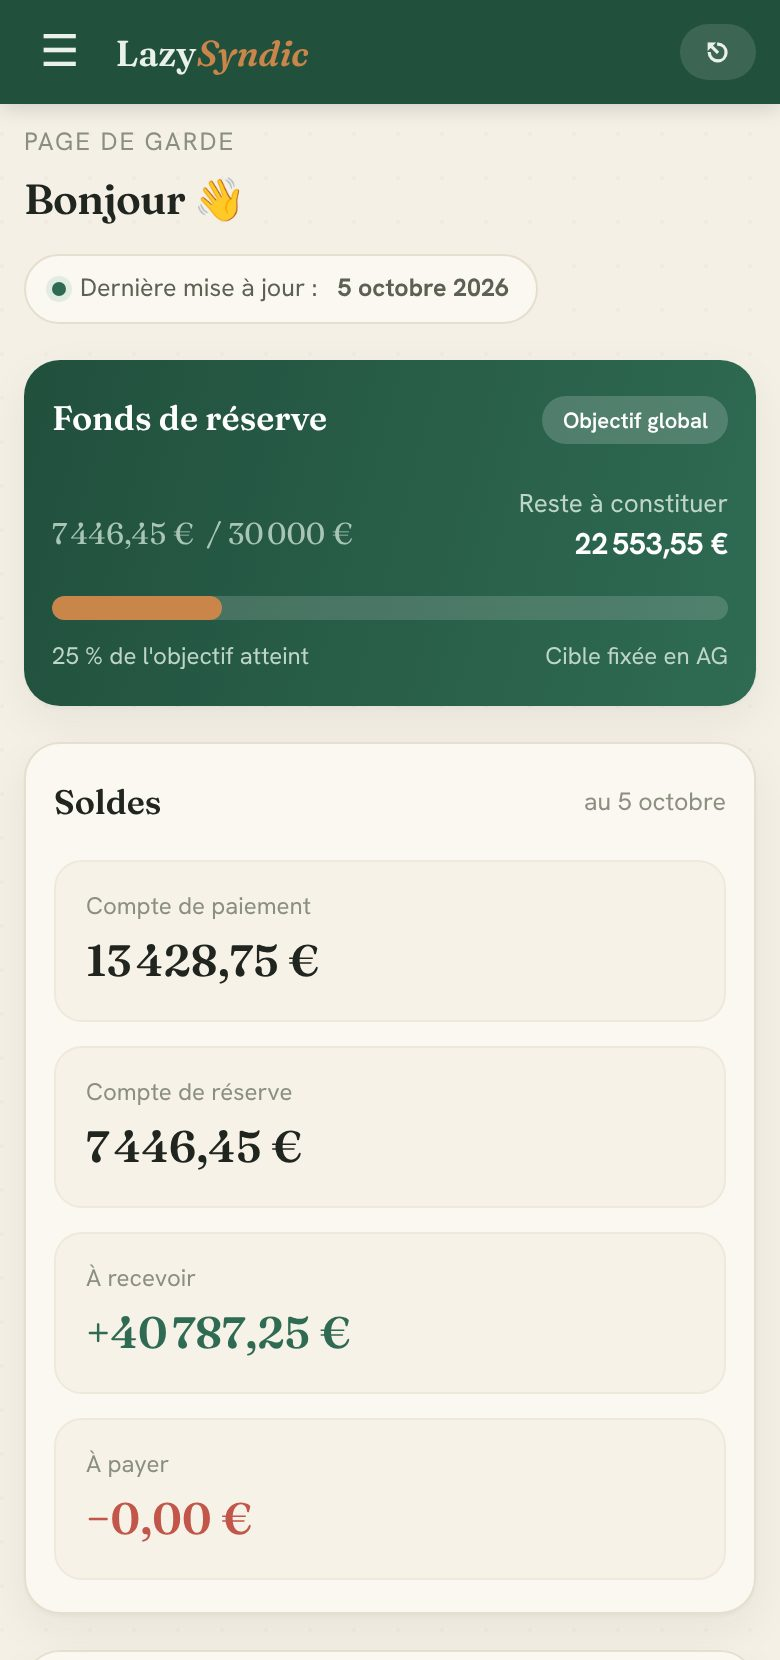
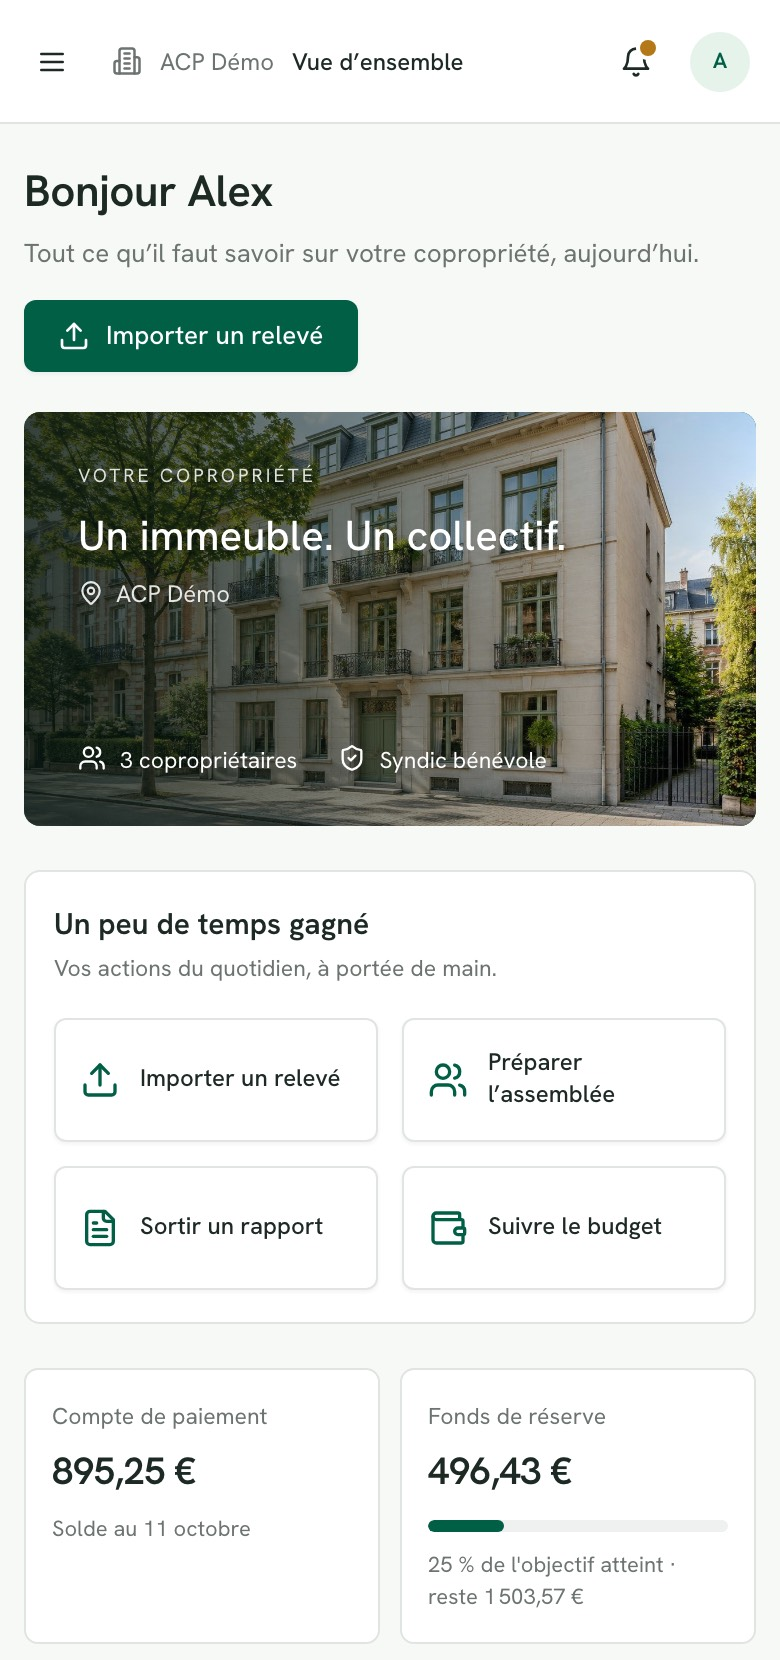
feat(réalisations): LazySyndic montré dans son nouveau design — vue d'ensemble avec l'immeuble, les raccourcis et les quatre chiffres clés, dans le carrousel et sur la page du cas ; iPhone à barre d'état blanche comme la barre du haut de l'app (v2.41)
Captures refaites sur une copie hors ligne de LazySyndic (01732ee, données de démo, utilisateur
« Alex Martin »), aux mêmes dimensions qu'avant (1200×750, 780×1660). Textes alternatifs EN et FR
réécrits, ?v=16 / ?v=2 contre le cache, sitemap et pages /fr/ régénérés par build-fr.

diff --git a/fr/index.html b/fr/index.html
@@ -123,8 +123,10 @@
 <link href="https://fonts.googleapis.com/css2?family=Sora:wght@500;600;700;800&family=Instrument+Sans:ital,wght@0,400;0,500;0,600;1,400&family=JetBrains+Mono:wght@400;500;600&display=swap" rel="stylesheet">
 <style>
   /* =========================================================
-     LA GOFFINERIE v2.40 — cookies: consent.js on every page asks before Google Analytics 4 (nothing reaches Google before
-     « Accept », refuse and accept alike, « Cookie settings » in every footer); a sent request is a generate_lead.
+     LA GOFFINERIE v2.41 — work: the LazySyndic screenshots (carousel and work page) show its new design: the overview with
+     the building, the shortcuts and the four key figures; the phone has a white status bar like the app's top bar.
+     (v2.40: cookies: consent.js on every page asks before Google Analytics 4 (nothing reaches Google before
+     « Accept », refuse and accept alike, « Cookie settings » in every footer); a sent request is a generate_lead.)
      (v2.39: the French pages are real pages: /fr/x.html, written by tools/build-fr.mjs from the FR
      dictionaries (French in the HTML, title, description, JSON-LD, self-canonical, hreflang en/fr/x-default on both, both
      in sitemap.xml); the EN/FR switch goes to the other page, old ?lang= links are sent there.)
@@ -1263,8 +1265,8 @@
     <li class="wk-p" id="wk-lazysyndic" data-svc="auto" aria-roledescription="slide" aria-label="2 / 5" aria-hidden="true" inert>
       <div class="wk-wrap wk-in">
         <div class="wk-vis">
-          <div class="wk-br"><div class="wk-bar" aria-hidden="true"><i></i><i></i><i></i><span data-i18n="bar_l">lazysyndic · données de démo</span></div><img src="../assets/work/lazysyndic.jpg?v=15" alt="Le tableau de bord LazySyndic pour syndic bénévole : fonds de réserve, soldes des comptes et qui paie quoi" data-i18n-alt="alt_l" loading="lazy" width="1200" height="750"></div>
-          <div class="wk-ph" aria-hidden="true"><div class="wk-scr" style="--sb:#21503c;--sbt:#fff"><img src="../assets/work/lazysyndic-mobile.jpg" alt="LazySyndic sur téléphone : le fonds de réserve et les soldes des comptes" data-i18n-alt="alt_l_m" loading="lazy" width="780" height="1660"></div></div>
+          <div class="wk-br"><div class="wk-bar" aria-hidden="true"><i></i><i></i><i></i><span data-i18n="bar_l">lazysyndic · données de démo</span></div><img src="../assets/work/lazysyndic.jpg?v=16" alt="La vue d'ensemble LazySyndic pour syndic bénévole : l'immeuble, les raccourcis du quotidien et les chiffres clés (compte de paiement, fonds de réserve, ce que doivent les copropriétaires)" data-i18n-alt="alt_l" loading="lazy" width="1200" height="750"></div>
+          <div class="wk-ph" aria-hidden="true"><div class="wk-scr" style="--sb:#fff;--sbt:#111"><img src="../assets/work/lazysyndic-mobile.jpg?v=2" alt="LazySyndic sur téléphone : l'immeuble, les raccourcis du quotidien et les premiers chiffres clés" data-i18n-alt="alt_l_m" loading="lazy" width="780" height="1660"></div></div>
         </div>
         <div class="wk-txt">
           <div class="wk-svc"><a href="ai-automation.html" data-track="case_svc"><svg viewBox="0 0 24 24" aria-hidden="true"><circle cx="12" cy="12" r="10" fill="#E2452C"/></svg><span data-i18n="hc2_t">Automatisation IA</span></a></div>
@@ -1594,8 +1596,8 @@ const FR = {
   og_desc:"Des sites web et des outils qui travaillent pour les PME belges. Dès {ess} HTVA, un prix fixé par écrit. Tout vous appartient.",
   alt_b:"Page d'accueil du site Bravo Reno : électricien, serrurier et poseur de portes en Wallonie et à Bruxelles",
   alt_b_m:"Le site Bravo Reno sur téléphone, avec son bouton d'appel d'urgence",
-  alt_l:"Le tableau de bord LazySyndic pour syndic bénévole : fonds de réserve, soldes des comptes et qui paie quoi",
-  alt_l_m:"LazySyndic sur téléphone : le fonds de réserve et les soldes des comptes",
+  alt_l:"La vue d'ensemble LazySyndic pour syndic bénévole : l'immeuble, les raccourcis du quotidien et les chiffres clés (compte de paiement, fonds de réserve, ce que doivent les copropriétaires)",
+  alt_l_m:"LazySyndic sur téléphone : l'immeuble, les raccourcis du quotidien et les premiers chiffres clés",
   alt_h:"Le tableau de bord d'investissement Henry : valeur du portefeuille, performance face au marché et répartition par classe d'actifs",
   alt_h_m:"Henry sur téléphone : la valeur du portefeuille et sa courbe face au MSCI World",
   alt_s:"Scrum Poker, une appli de planning poker en ligne : créer une session ou en rejoindre une avec un identifiant",

diff --git a/index.html b/index.html
@@ -123,8 +123,10 @@
 <link href="https://fonts.googleapis.com/css2?family=Sora:wght@500;600;700;800&family=Instrument+Sans:ital,wght@0,400;0,500;0,600;1,400&family=JetBrains+Mono:wght@400;500;600&display=swap" rel="stylesheet">
 <style>
   /* =========================================================
-     LA GOFFINERIE v2.40 — cookies: consent.js on every page asks before Google Analytics 4 (nothing reaches Google before
-     « Accept », refuse and accept alike, « Cookie settings » in every footer); a sent request is a generate_lead.
+     LA GOFFINERIE v2.41 — work: the LazySyndic screenshots (carousel and work page) show its new design: the overview with
+     the building, the shortcuts and the four key figures; the phone has a white status bar like the app's top bar.
+     (v2.40: cookies: consent.js on every page asks before Google Analytics 4 (nothing reaches Google before
+     « Accept », refuse and accept alike, « Cookie settings » in every footer); a sent request is a generate_lead.)
      (v2.39: the French pages are real pages: /fr/x.html, written by tools/build-fr.mjs from the FR
      dictionaries (French in the HTML, title, description, JSON-LD, self-canonical, hreflang en/fr/x-default on both, both
      in sitemap.xml); the EN/FR switch goes to the other page, old ?lang= links are sent there.)
@@ -1263,8 +1265,8 @@
     <li class="wk-p" id="wk-lazysyndic" data-svc="auto" aria-roledescription="slide" aria-label="2 / 5" aria-hidden="true" inert>
       <div class="wk-wrap wk-in">
         <div class="wk-vis">
-          <div class="wk-br"><div class="wk-bar" aria-hidden="true"><i></i><i></i><i></i><span data-i18n="bar_l">lazysyndic · demo data</span></div><img src="assets/work/lazysyndic.jpg?v=15" alt="The LazySyndic dashboard for a volunteer syndic: reserve fund, account balances and who pays what" data-i18n-alt="alt_l" loading="lazy" width="1200" height="750"></div>
-          <div class="wk-ph" aria-hidden="true"><div class="wk-scr" style="--sb:#21503c;--sbt:#fff"><img src="assets/work/lazysyndic-mobile.jpg" alt="LazySyndic on a phone: the reserve fund and the account balances" data-i18n-alt="alt_l_m" loading="lazy" width="780" height="1660"></div></div>
+          <div class="wk-br"><div class="wk-bar" aria-hidden="true"><i></i><i></i><i></i><span data-i18n="bar_l">lazysyndic · demo data</span></div><img src="assets/work/lazysyndic.jpg?v=16" alt="The LazySyndic overview for a volunteer syndic: the building, everyday shortcuts and the key figures (payment account, reserve fund, what the owners owe)" data-i18n-alt="alt_l" loading="lazy" width="1200" height="750"></div>
+          <div class="wk-ph" aria-hidden="true"><div class="wk-scr" style="--sb:#fff;--sbt:#111"><img src="assets/work/lazysyndic-mobile.jpg?v=2" alt="LazySyndic on a phone: the building, everyday shortcuts and the first key figures" data-i18n-alt="alt_l_m" loading="lazy" width="780" height="1660"></div></div>
         </div>
         <div class="wk-txt">
           <div class="wk-svc"><a href="ai-automation.html" data-track="case_svc"><svg viewBox="0 0 24 24" aria-hidden="true"><circle cx="12" cy="12" r="10" fill="#E2452C"/></svg><span data-i18n="hc2_t">AI automation</span></a></div>
@@ -1594,8 +1596,8 @@ const FR = {
   og_desc:"Des sites web et des outils qui travaillent pour les PME belges. Dès {ess} HTVA, un prix fixé par écrit. Tout vous appartient.",
   alt_b:"Page d'accueil du site Bravo Reno : électricien, serrurier et poseur de portes en Wallonie et à Bruxelles",
   alt_b_m:"Le site Bravo Reno sur téléphone, avec son bouton d'appel d'urgence",
-  alt_l:"Le tableau de bord LazySyndic pour syndic bénévole : fonds de réserve, soldes des comptes et qui paie quoi",
-  alt_l_m:"LazySyndic sur téléphone : le fonds de réserve et les soldes des comptes",
+  alt_l:"La vue d'ensemble LazySyndic pour syndic bénévole : l'immeuble, les raccourcis du quotidien et les chiffres clés (compte de paiement, fonds de réserve, ce que doivent les copropriétaires)",
+  alt_l_m:"LazySyndic sur téléphone : l'immeuble, les raccourcis du quotidien et les premiers chiffres clés",
   alt_h:"Le tableau de bord d'investissement Henry : valeur du portefeuille, performance face au marché et répartition par classe d'actifs",
   alt_h_m:"Henry sur téléphone : la valeur du portefeuille et sa courbe face au MSCI World",
   alt_s:"Scrum Poker, une appli de planning poker en ligne : créer une session ou en rejoindre une avec un identifiant",

diff --git a/fr/work.html b/fr/work.html
@@ -265,7 +265,7 @@
     <!-- ================= LAZYSYNDIC ================= -->
     <section id="lazysyndic">
       <article class="case c-blue rv">
-        <div class="shot"><div class="sbar"><i></i><i></i><i></i><span data-i18n="l_bar">lazysyndic · données de démonstration</span></div><div class="frame"><img src="../assets/work/lazysyndic.jpg?v=15" alt="Le tableau de bord LazySyndic pour syndic bénévole : fonds de réserve, soldes, qui paie quoi" data-i18n-alt="l_alt" loading="lazy" width="1200" height="750"></div></div>
+        <div class="shot"><div class="sbar"><i></i><i></i><i></i><span data-i18n="l_bar">lazysyndic · données de démonstration</span></div><div class="frame"><img src="../assets/work/lazysyndic.jpg?v=16" alt="La vue d'ensemble LazySyndic pour syndic bénévole : l'immeuble, les raccourcis du quotidien et les chiffres clés (compte de paiement, fonds de réserve, ce que doivent les copropriétaires)" data-i18n-alt="l_alt" loading="lazy" width="1200" height="750"></div></div>
         <div class="left">
           <span class="badge" data-i18n="l_badge">Étude de cas · Syndic bénévole</span>
           <h2 data-i18n="l_h">La copropriété en pilote automatique.</h2>
@@ -417,7 +417,7 @@ const FR = {
   b_f5h:"Google Analytics", b_f5p:"Le site est équipé d'outils d'analyse permettant de suivre les interactions des visiteurs, leur comportement et les performances des différentes pages.",
   l_badge:"Étude de cas · Syndic bénévole",
   l_bar:"lazysyndic · données de démonstration",
-  l_alt:"Le tableau de bord LazySyndic pour syndic bénévole : fonds de réserve, soldes, qui paie quoi",
+  l_alt:"La vue d'ensemble LazySyndic pour syndic bénévole : l'immeuble, les raccourcis du quotidien et les chiffres clés (compte de paiement, fonds de réserve, ce que doivent les copropriétaires)",
   l_h:"La copropriété en pilote automatique.",
   l_who:"Plateforme de gestion de copropriété · en production",
   l_t1:"Transactions &amp; catégories", l_t2:"Rapports financiers", l_t3:"Convocations d'AG", l_t4:"Signature électronique",

diff --git a/work.html b/work.html
@@ -265,7 +265,7 @@
     <!-- ================= LAZYSYNDIC ================= -->
     <section id="lazysyndic">
       <article class="case c-blue rv">
-        <div class="shot"><div class="sbar"><i></i><i></i><i></i><span data-i18n="l_bar">lazysyndic · demo data</span></div><div class="frame"><img src="assets/work/lazysyndic.jpg?v=15" alt="The LazySyndic dashboard for a volunteer syndic: reserve fund, balances, who pays what" data-i18n-alt="l_alt" loading="lazy" width="1200" height="750"></div></div>
+        <div class="shot"><div class="sbar"><i></i><i></i><i></i><span data-i18n="l_bar">lazysyndic · demo data</span></div><div class="frame"><img src="assets/work/lazysyndic.jpg?v=16" alt="The LazySyndic overview for a volunteer syndic: the building, everyday shortcuts and the key figures (payment account, reserve fund, what the owners owe)" data-i18n-alt="l_alt" loading="lazy" width="1200" height="750"></div></div>
         <div class="left">
           <span class="badge" data-i18n="l_badge">Case study · Volunteer syndic</span>
           <h2 data-i18n="l_h">The co-ownership on autopilot.</h2>
@@ -417,7 +417,7 @@ const FR = {
   b_f5h:"Google Analytics", b_f5p:"Le site est équipé d'outils d'analyse permettant de suivre les interactions des visiteurs, leur comportement et les performances des différentes pages.",
   l_badge:"Étude de cas · Syndic bénévole",
   l_bar:"lazysyndic · données de démonstration",
-  l_alt:"Le tableau de bord LazySyndic pour syndic bénévole : fonds de réserve, soldes, qui paie quoi",
+  l_alt:"La vue d'ensemble LazySyndic pour syndic bénévole : l'immeuble, les raccourcis du quotidien et les chiffres clés (compte de paiement, fonds de réserve, ce que doivent les copropriétaires)",
   l_h:"La copropriété en pilote automatique.",
   l_who:"Plateforme de gestion de copropriété · en production",
   l_t1:"Transactions &amp; catégories", l_t2:"Rapports financiers", l_t3:"Convocations d'AG", l_t4:"Signature électronique",
